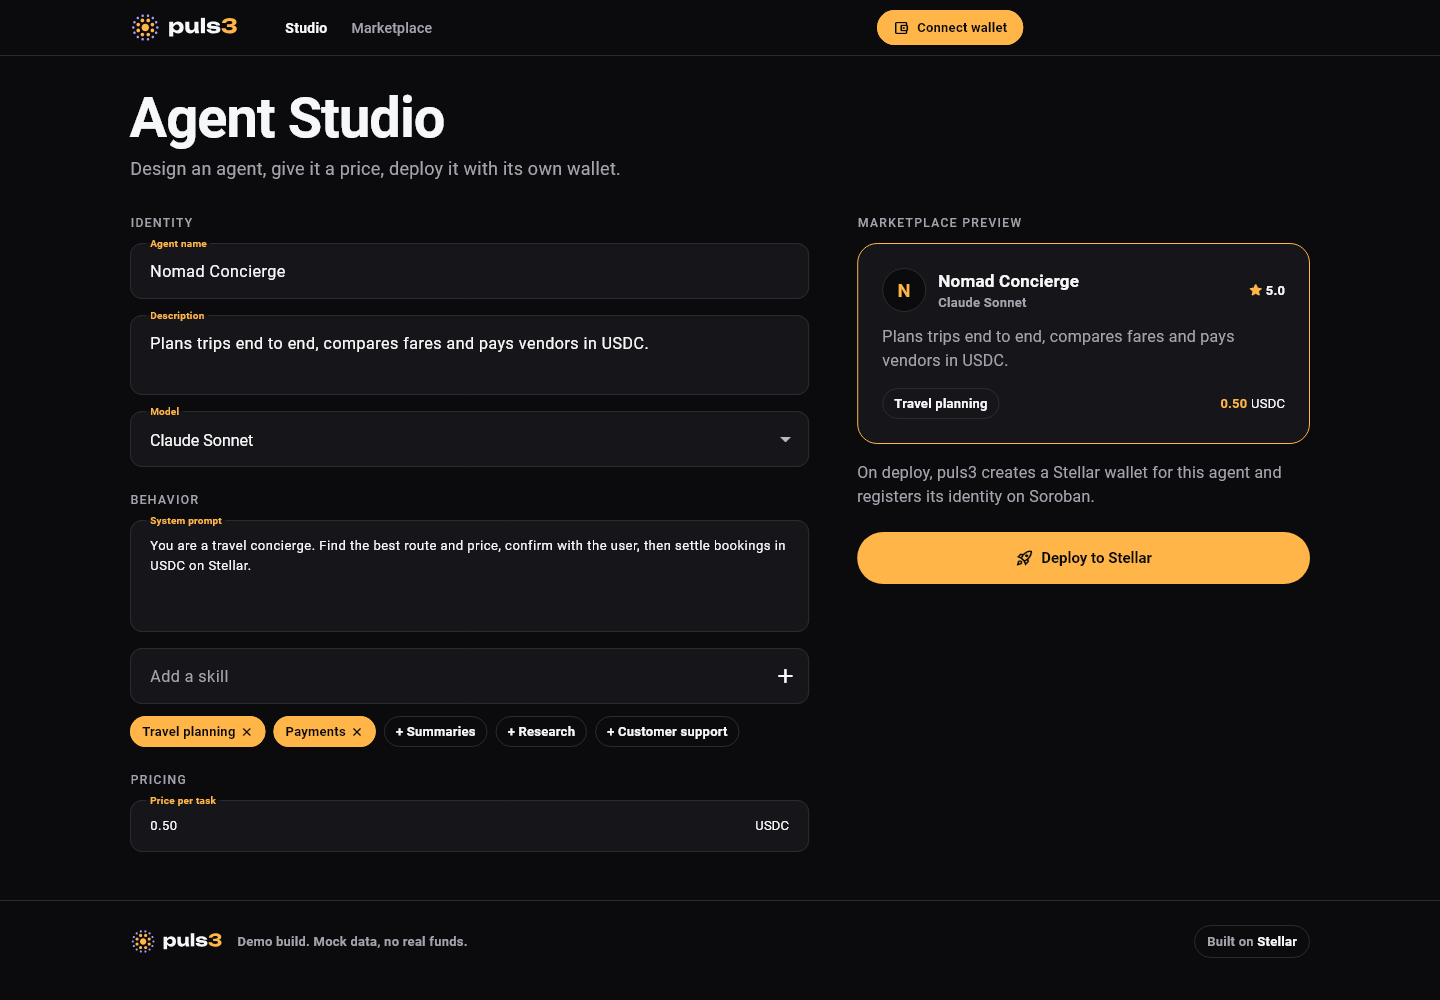
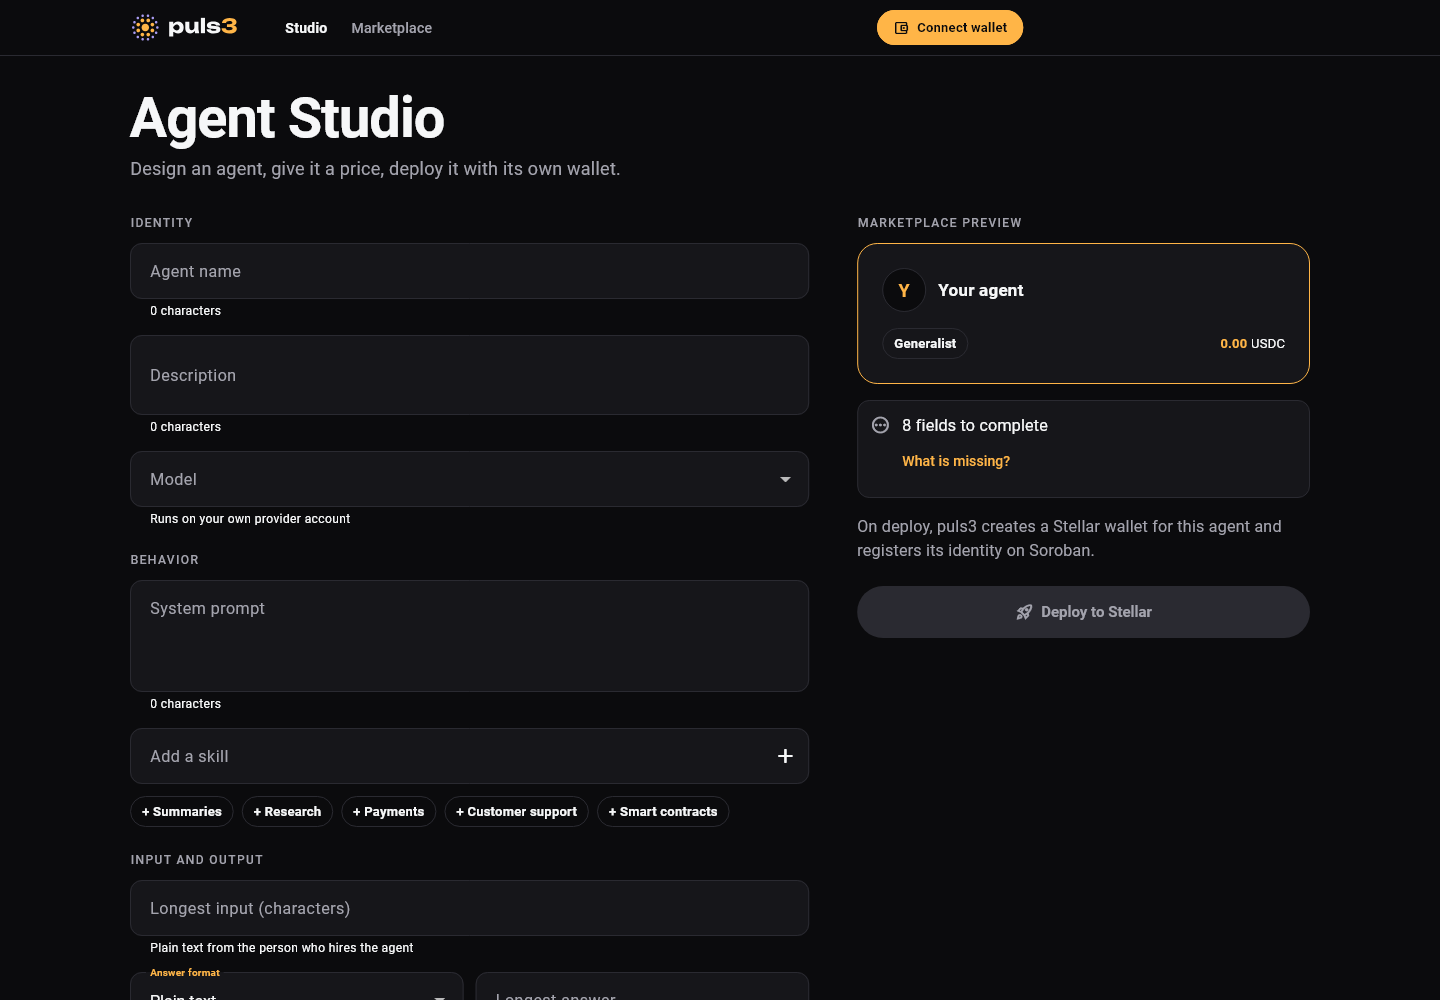
docs(blueprints): refresh S04/S07/S08 wireframes, complete the inventory and add a blueprint check
Refs #23.

- S04, S07 and S08 wireframes no longer matched the app: they predated
  the hire relay (#144), wallet sign-in (#149), the funds check (#159)
  and the Studio builder (#145). They are regenerated from the app at
  1440 and 390 px; the other 30 generated wireframes still match and are
  unchanged.
- screens.md: S04 states now cover the wallet sign-in step, the funds
  check before any signature, resuming an unfinished hire, and the
  confirming/held result. S06 lists HireDetailView. The inventory adds
  HireDetailView and Puls3Mark and explains the (new) planned components.
- The wireframe tool fills a valid manifest before opening the deploy
  sheet, and seeds the demo wallet so the S08 PNG is the same on every
  run.
- scripts/tests/blueprints.test.sh checks offline that every screen ID
  has a 1440 and a 390 px PNG, every wireframe is linked and every link
  resolves, every screen documents its four states, data, actions and
  components, and every Entity.field exists in docs/domain/model.md.

diff --git a/puls3_flutter/tool/wireframes/wireframes_test.dart b/puls3_flutter/tool/wireframes/wireframes_test.dart
@@ -15,12 +15,14 @@ library;
 
 import 'dart:async';
 import 'dart:io';
+import 'dart:math';
 
 import 'package:flutter/material.dart';
 import 'package:flutter/services.dart';
 import 'package:flutter_test/flutter_test.dart';
 import 'package:puls3_flutter/src/data/agent_repository.dart';
 import 'package:puls3_flutter/src/domain/agent.dart';
+import 'package:puls3_flutter/src/domain/stellar_format.dart';
 import 'package:puls3_flutter/src/theme/puls3_theme.dart';
 import 'package:puls3_flutter/src/ui/atoms/address_badge.dart';
 import 'package:puls3_flutter/src/ui/atoms/content_width.dart';
@@ -32,6 +34,7 @@ import 'package:puls3_flutter/src/ui/molecules/empty_state.dart';
 import 'package:puls3_flutter/src/ui/molecules/key_value_row.dart';
 import 'package:puls3_flutter/src/ui/molecules/progress_step_row.dart';
 import 'package:puls3_flutter/src/ui/molecules/screen_header.dart';
+import 'package:puls3_flutter/src/wallet/mock_wallet.dart';
 
 import '../../test/helpers.dart';
 
@@ -98,6 +101,35 @@ Future<void> _tap(WidgetTester tester, String text) async {
   await tester.pump();
   await tester.tap(find.text(text).first);
   await advance(tester, const Duration(milliseconds: 600));
+}
+
+/// Fills the Studio form with a manifest the domain accepts.
+Future<void> _fillValidManifest(WidgetTester tester) async {
+  Future<void> type(String key, String text) async {
+    final field = find.byKey(Key(key));
+    await tester.ensureVisible(field);
+    await tester.enterText(field, text);
+    await tester.pump();
+  }
+
+  await type('agent-name-field', 'Brief Bot');
+  await type(
+    'agent-description-field',
+    'Summarizes long text into a short brief.',
+  );
+  await tester.ensureVisible(find.byKey(const Key('agent-model-field')));
+  await tester.tap(find.byKey(const Key('agent-model-field')));
+  await tester.pump(const Duration(milliseconds: 300));
+  await tester.tap(find.text('Llama 3.3 70B · free').last);
+  await tester.pump(const Duration(milliseconds: 300));
+  await type(
+    'agent-prompt-field',
+    'You are Brief Bot. Reply with at most five bullet points.',
+  );
+  await _tap(tester, '+ Summaries');
+  await type('agent-input-max-field', '6000');
+  await type('agent-output-max-field', '2000');
+  await type('agent-price-field', '0.10');
 }
 
 /// A screen that is not built yet, drawn from the app's components.
@@ -422,7 +454,16 @@ void main() {
       });
 
       testWidgets('S08-deploy-sheet', (tester) async {
-        await pumpApp(tester, location: '/studio', size: size);
+        // A seeded demo wallet: its address shows in the top bar, so the PNG
+        // is the same on every run.
+        await pumpApp(
+          tester,
+          location: '/studio',
+          size: size,
+          wallet: MockWallet(ids: FakeLedgerIds(Random(23))),
+        );
+        // Deploy opens only for a valid manifest (S07, #37).
+        await _fillValidManifest(tester);
         await _tap(tester, 'Deploy to Stellar');
         await advance(tester, const Duration(milliseconds: 1500));
         await _shoot(tester, 'S08-deploy-sheet-$width');

diff --git a/docs/blueprints/screens.md b/docs/blueprints/screens.md
@@ -96,10 +96,10 @@ Every screen sits in the app shell: the top bar (logo, wallet chip) and, on phon
 
 | State | What the user sees |
 |---|---|
-| Loading | **Confirm & sign** shows "Signing…" and the current step: creating the hire, "Sign the escrow job (1 of 2)", "Sign the payment (2 of 2)", sending to the escrow. |
-| Empty | No task typed: **Confirm & sign** is disabled. |
-| Error | "Payment failed" with the reason (wallet rejected, not signed in, preparation expired, missing USDC, server unavailable) and **Try again**, which resumes from the failed step without creating a second hire. |
-| Success | "Payment sent to the escrow" with `Hire.id`, the transaction and **View on StellarExpert**. A demo backend says "Demo signature only" and links nothing. |
+| Loading | **Confirm & sign** shows "Signing…" and the current step: the wallet sign-in ("Sign in with your wallet: it only proves the account is yours", SEP-10, #149), creating the hire, "Sign the escrow job in your wallet (1 of 2)", "Sign the payment in your wallet (2 of 2)", sending the payment to the escrow. |
+| Empty | No task typed: **Confirm & sign** is disabled. An unfinished hire with this agent is resumed instead: its task is shown and locked, with "You have an unfinished hire with this agent. Confirming resumes it, so you are never charged twice." |
+| Error | "Payment failed" with the reason and **Try again**, which resumes from the failed step without creating a second hire. Before any signature, the wallet's testnet funds are checked (#159): no account on testnet, no USDC trustline, or less USDC than `Agent.price`, each with "Nothing was signed". Other reasons: wallet rejected, sign-in unavailable, preparation expired, payment could not be prepared, server unavailable. |
+| Success | While the payment confirms: "Payment sent, confirming on Stellar…" with `Hire.id`, the transaction and **View on StellarExpert**. Once confirmed: "Payment held by the escrow". A demo backend says "Demo signature only" and links nothing. |
 
 **Actions:** **Confirm & sign** → wallet prompts (S09 first if no wallet). **View hire** → S06. **Back to Marketplace** → S02.
 
@@ -137,7 +137,7 @@ Every screen sits in the app shell: the top bar (logo, wallet chip) and, on phon
 
 **Actions:** **Approve** → wallet signs `complete` → **Completed**. **Reject and refund** (optional reason) → wallet signs `reject` → **Rejected**; hidden after the deadline. **Rate** → S10.
 
-**Components:** `ScreenHeader`, `ProgressStepRow`, `SectionLabel`, `KeyValueRow`, `AddressBadge`, `PrimaryButton`, `ErrorBanner`.
+**Components:** `HireDetailView` (the read-only screen today), `ScreenHeader`, `ProgressStepRow`, `SectionLabel`, `KeyValueRow`, `AddressBadge`, `PrimaryButton`, `ErrorBanner`.
 
 ### S07-studio
 
@@ -245,7 +245,7 @@ Every screen sits in the app shell: the top bar (logo, wallet chip) and, on phon
 
 ## Component inventory
 
-Atomic design, as in `puls3_flutter/lib/src/ui/`. Presentational widgets get their data through constructors; only screens (containers) read app state or call the server.
+Atomic design, as in `puls3_flutter/lib/src/ui/`. Components marked *(new)* are specified for screens not built yet (S11, S12). Presentational widgets get their data through constructors; only screens (containers) read app state or call the server.
 
 ### Atoms
 
@@ -257,6 +257,7 @@ Atomic design, as in `puls3_flutter/lib/src/ui/`. Presentational widgets get the
 | `PriceTag` | `AgentCard`, `AgentDetailView`, `AgentMiniCard`, `HirePaymentView` | S01, S02, S03, S04, S05, S07 |
 | `PrimaryButton` | screens, `AgentDetailView`, `EmptyState`, `HirePaymentView`, `WalletPanel`, deploy panels | S01, S03, S04, S06, S07, S08, S09, S10 |
 | `Puls3Logo` | `TopBar`, `SiteFooter`, landing | all |
+| `Puls3Mark` | the logo's mark alone (no screen uses it yet) | — |
 | `PulseBackground` | landing | S01 |
 | `RatingBadge` | `AgentCard`, `AgentDetailView` | S02, S03 |
 | `SectionLabel` | `AgentDetailView`, `AgentForm`, landing, Studio | S01, S03, S06, S07 |
@@ -290,6 +291,7 @@ Atomic design, as in `puls3_flutter/lib/src/ui/`. Presentational widgets get the
 | `AgentForm` | S07 |
 | `AgentGrid`, `AgentGridSkeleton` | S02 |
 | `HirePaymentView` | S04 |
+| `HireDetailView` | S06 |
 | `SiteFooter` | S01, S02, S03, S07 |
 | `TopBar` | all (app shell) |
 | `WalletPanel` | S09 |
